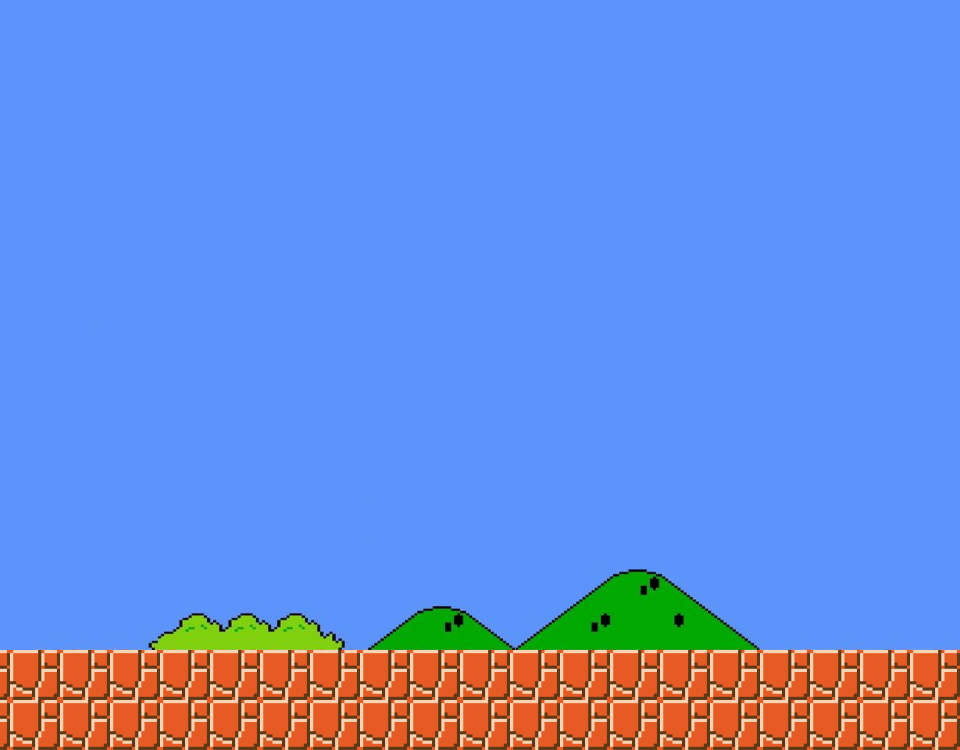
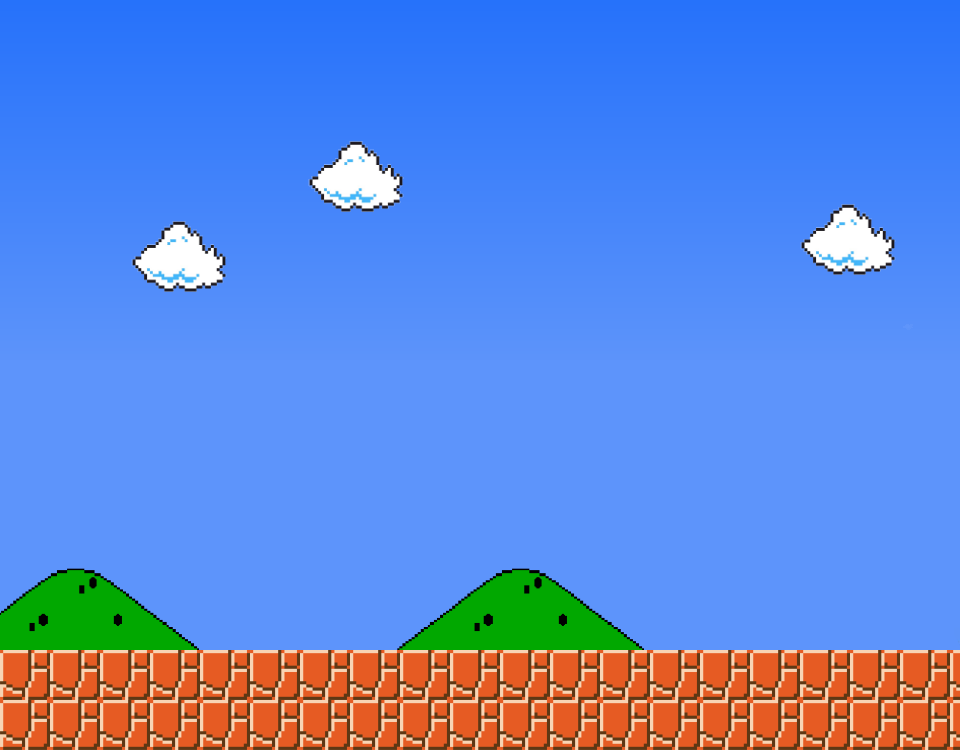
Mas sprites, bloque de bandera y cambios del fondo

diff --git a/CodigoFuente/src/juego/ControladorMovimiento.java b/CodigoFuente/src/juego/ControladorMovimiento.java
@@ -9,7 +9,7 @@ import sensoresDeTeclas.SensorDeTeclasJuego;
 import ventanas.DimensionesConstantes;
 
 public class ControladorMovimiento {
-	private static final int VELOCIDAD_MOVIMIENTO_HORIZONTAL = 10;
+	private static final int VELOCIDAD_MOVIMIENTO_HORIZONTAL = 50;
 	
 	private static final int FUERZA_SALTO = -30;
 	

diff --git a/CodigoFuente/src/generadores/GeneradorDeNivel.java b/CodigoFuente/src/generadores/GeneradorDeNivel.java
@@ -247,7 +247,7 @@ public class GeneradorDeNivel {
 	                }
                 }
 			}
-		} catch (IOException exception) {
+		} catch (IOException | ArrayIndexOutOfBoundsException exception) {
 			exception.printStackTrace();
 		} finally {
 			try {

diff --git a/CodigoFuente/src/ventanas/DimensionesConstantes.java b/CodigoFuente/src/ventanas/DimensionesConstantes.java
@@ -7,6 +7,4 @@ public class DimensionesConstantes {
 	public static final int PANEL_ALTO = 750;
 	public static final int PANEL_ANCHO = 960;	
 	
-	public static final int NIVEL_PISO = 600;
-
 }
